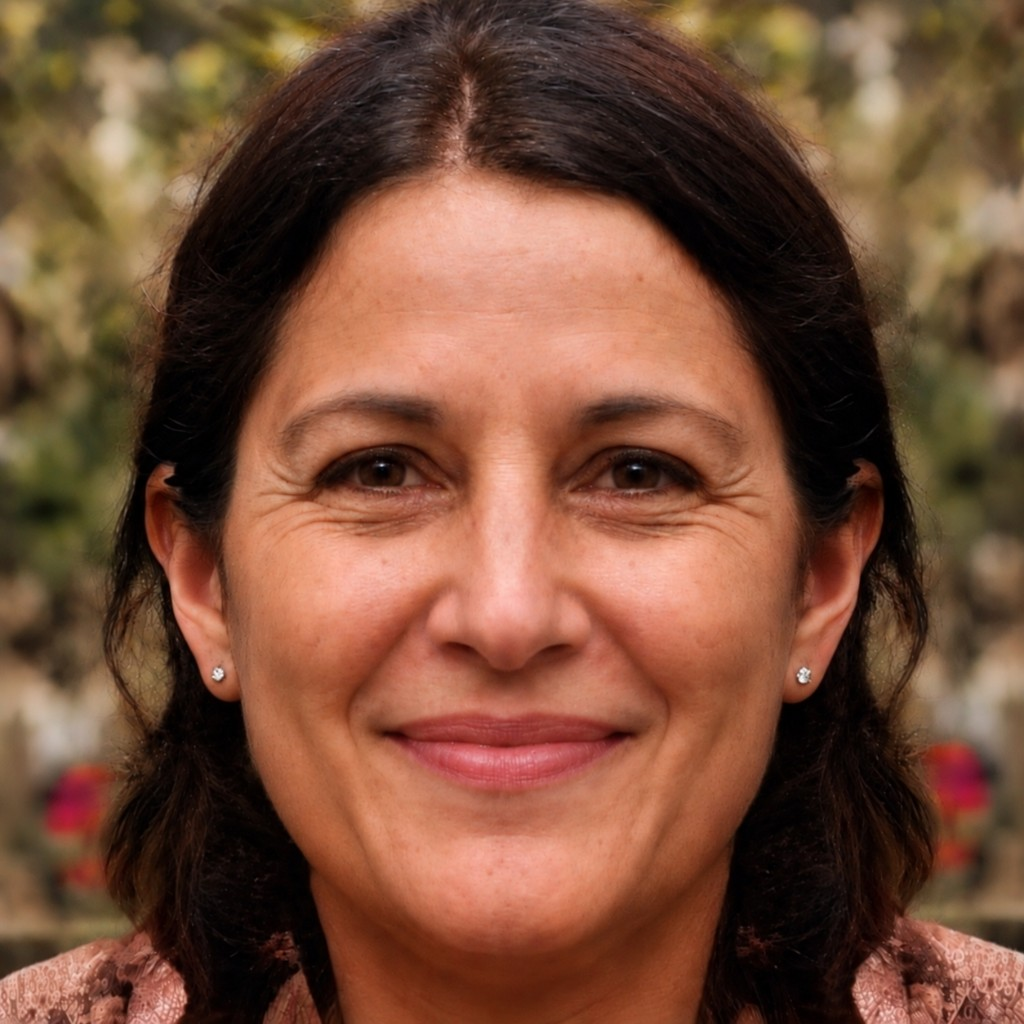
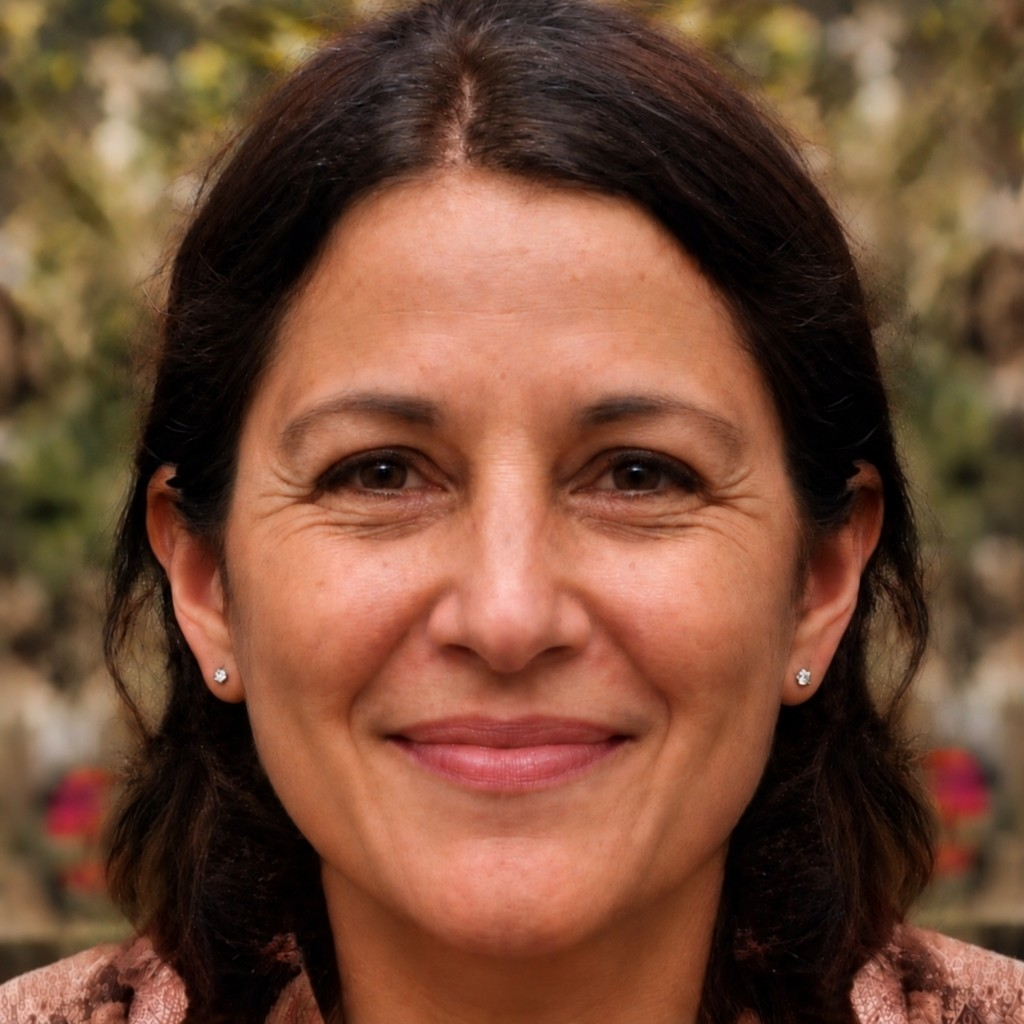
Add SEO migration redirects sitemap and robots

diff --git a/app/sitemap.ts b/app/sitemap.ts
@@ -1,0 +1,70 @@
+import type { MetadataRoute } from "next";
+import { getAuthors, getCategories, getPosts } from "@/lib/queries";
+import { normalizePostSlug } from "@/lib/slug";
+
+export const revalidate = 60;
+
+const BASE = "https://www.realtravelguides.com";
+
+const RETIRED_CATEGORY_SLUGS = new Set([
+  "food",
+  "fooddrink",
+  "hiddenplaces",
+  "exhibitions",
+]);
+
+const INDEXABLE_AUTHORS = new Set(["elenarossetti", "sophiepicot"]);
+
+export default async function sitemap(): Promise<MetadataRoute.Sitemap> {
+  const entries: MetadataRoute.Sitemap = [
+    { url: `${BASE}/` },
+    { url: `${BASE}/about` },
+    { url: `${BASE}/books` },
+    { url: `${BASE}/journeysbyrail` },
+  ];
+
+  try {
+    const categories = await getCategories();
+    for (const category of categories) {
+      if (!category.slug || RETIRED_CATEGORY_SLUGS.has(category.slug)) continue;
+      entries.push({
+        url: `${BASE}/journeysbyrail/categories/${category.slug}`,
+      });
+    }
+  } catch {
+    // Static pages remain if category data is unavailable.
+  }
+
+  try {
+    const authors = await getAuthors();
+    for (const author of authors) {
+      if (!INDEXABLE_AUTHORS.has(author.slug)) continue;
+      entries.push({ url: `${BASE}/${author.slug}` });
+    }
+  } catch {
+    // Static pages remain if author data is unavailable.
+  }
+
+  try {
+    const posts = await getPosts();
+    const seen = new Set<string>();
+    for (const post of posts) {
+      const slug = normalizePostSlug(post.slug);
+      if (!slug || seen.has(slug)) continue;
+      seen.add(slug);
+
+      const entry: MetadataRoute.Sitemap[number] = {
+        url: `${BASE}/post/${encodeURI(slug)}`,
+      };
+      if (post.published_at) {
+        const published = new Date(post.published_at);
+        if (!Number.isNaN(published.getTime())) entry.lastModified = published;
+      }
+      entries.push(entry);
+    }
+  } catch {
+    // Static pages remain if posts are unavailable.
+  }
+
+  return entries;
+}

diff --git a/next.config.ts b/next.config.ts
@@ -21,6 +21,26 @@ const nextConfig: NextConfig = {
         destination: "/journeysbyrail/categories/:slug",
         permanent: true,
       },
+      {
+        source: "/blog",
+        destination: "/journeysbyrail",
+        permanent: true,
+      },
+      {
+        source: "/journeysbyrail/categories/exhibitions",
+        destination: "/journeysbyrail/categories/culture",
+        permanent: true,
+      },
+      {
+        source: "/copy-of-books",
+        destination: "/sophiepicot",
+        permanent: true,
+      },
+      {
+        source: "/copy-of-sophie-picot",
+        destination: "/elenarossetti",
+        permanent: true,
+      },
     ];
   },
 };

diff --git a/app/robots.ts b/app/robots.ts
@@ -1,0 +1,11 @@
+import type { MetadataRoute } from "next";
+
+export default function robots(): MetadataRoute.Robots {
+  return {
+    rules: {
+      userAgent: "*",
+      allow: "/",
+    },
+    sitemap: "https://www.realtravelguides.com/sitemap.xml",
+  };
+}
